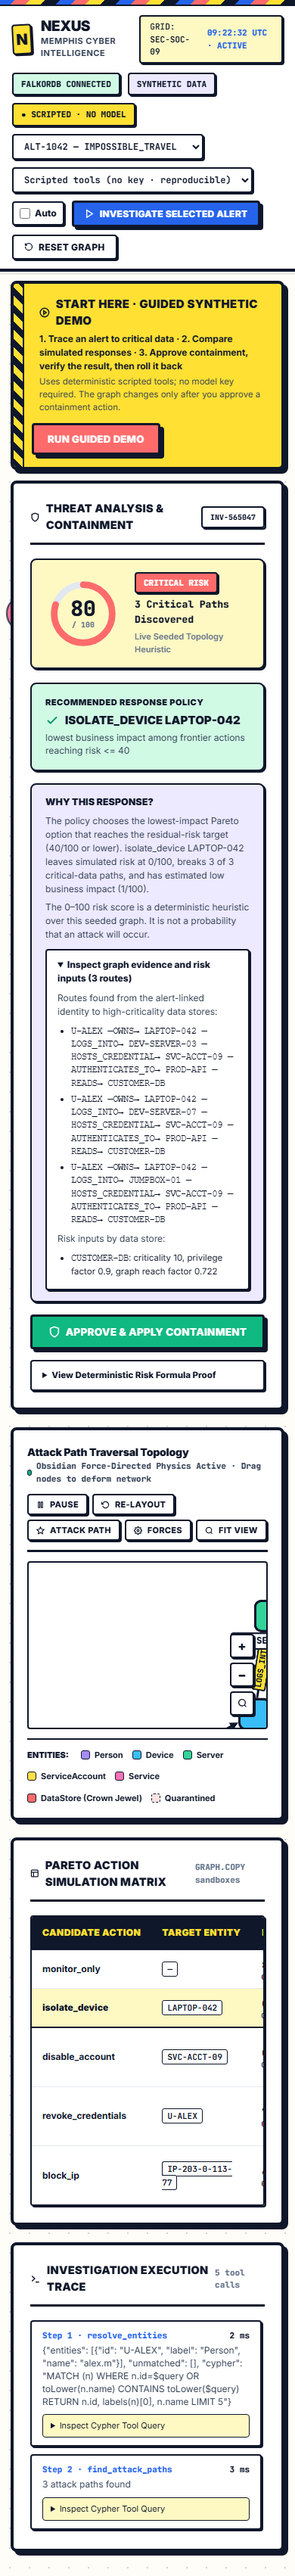
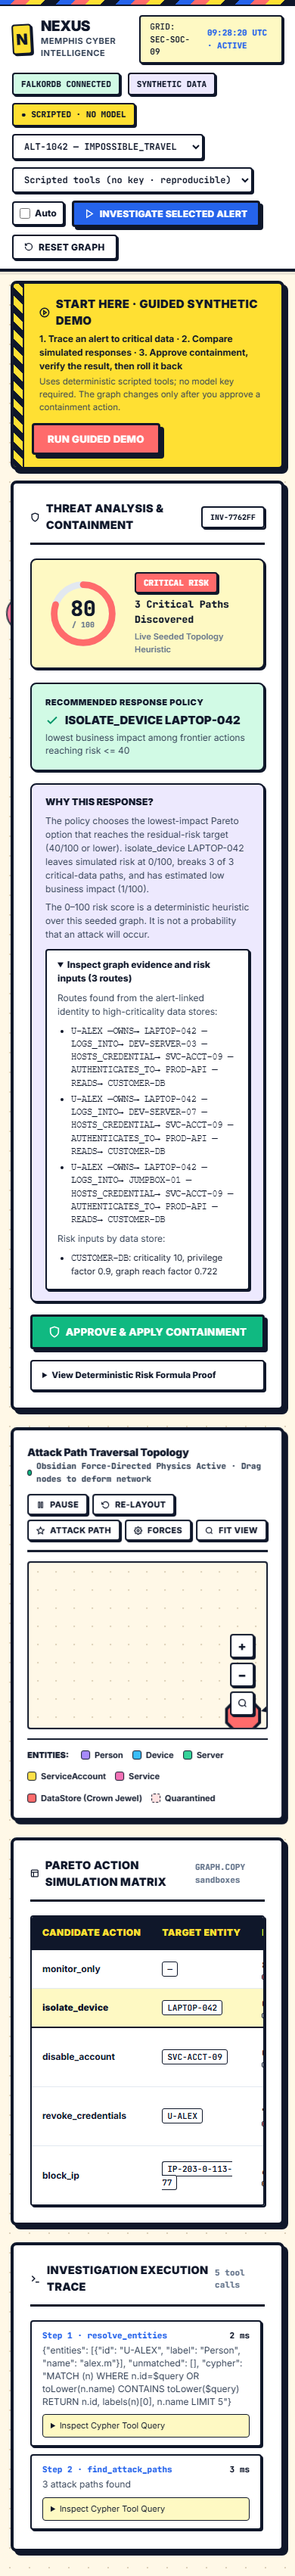
style: replace canvas white with warm buttercream newsprint #FFF8E7 and vintage dot halftone

diff --git a/ui/index.html b/ui/index.html
@@ -30,9 +30,9 @@
     :root {
       color-scheme: light;
 
-      /* Foundations: Warm Canvas & Solid Black Ink */
-      --memphis-canvas: #FFFDF7;
-      --memphis-canvas-dot: #CBD5E1;
+      /* Foundations: Warm Buttercream Newsprint & Solid Black Ink */
+      --memphis-canvas: #FFF8E7;
+      --memphis-canvas-dot: #DDD0B8;
       --memphis-card-bg: #FFFFFF;
       --memphis-black: #0F172A;
       --memphis-border: 3px solid #0F172A;
@@ -1248,7 +1248,7 @@
         </div>
 
         <!-- Canvas Container with Floating Inspector and Zoom Controls -->
-        <div style="position:relative; flex:1; width:100%; height:100%; overflow:hidden; border:var(--memphis-border-thin); border-radius:var(--radius-sm); background:#FFFFFF;" data-lenis-prevent>
+        <div style="position:relative; flex:1; width:100%; height:100%; overflow:hidden; border:var(--memphis-border-thin); border-radius:var(--radius-sm); background:var(--memphis-canvas); background-image:radial-gradient(var(--memphis-canvas-dot) 1.5px, transparent 1.5px); background-size:24px 24px;" data-lenis-prevent>
           <div id="cy" style="width:100%; height:100%;"></div>
 
           <!-- Floating Node Inspector Overlay -->
